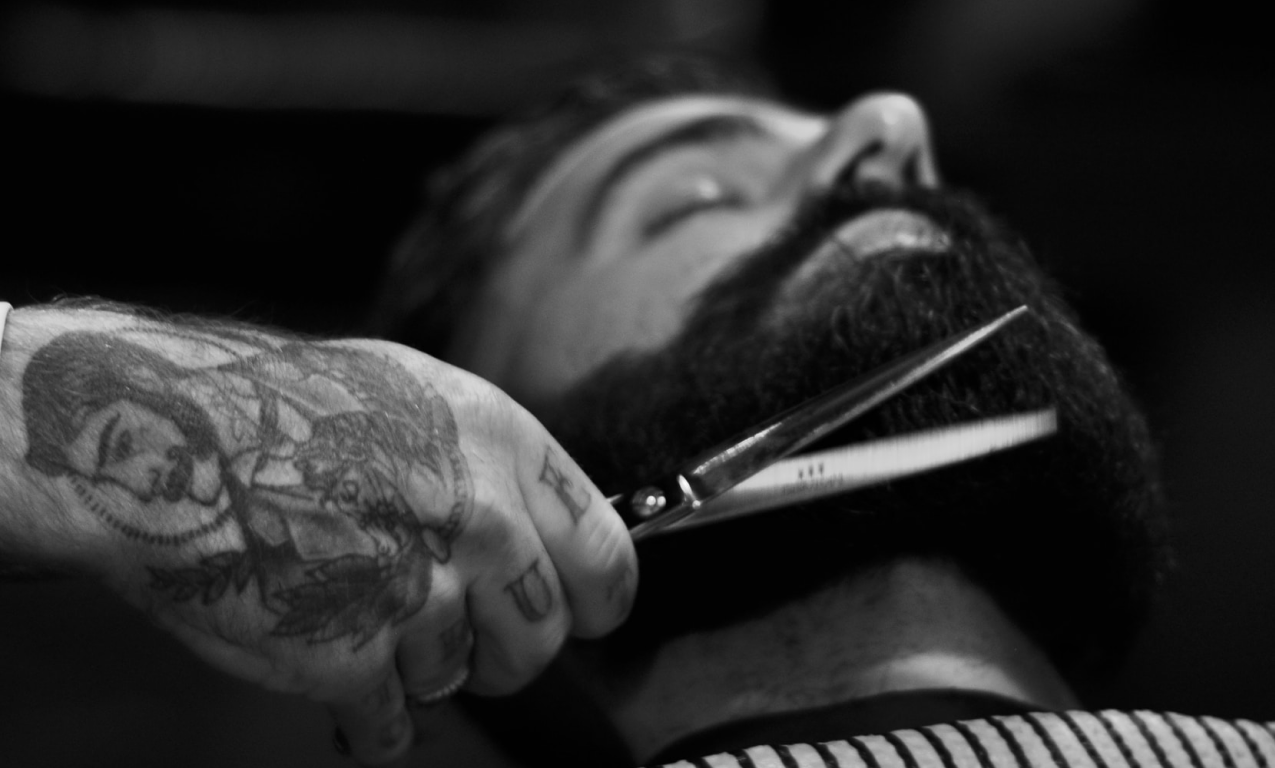
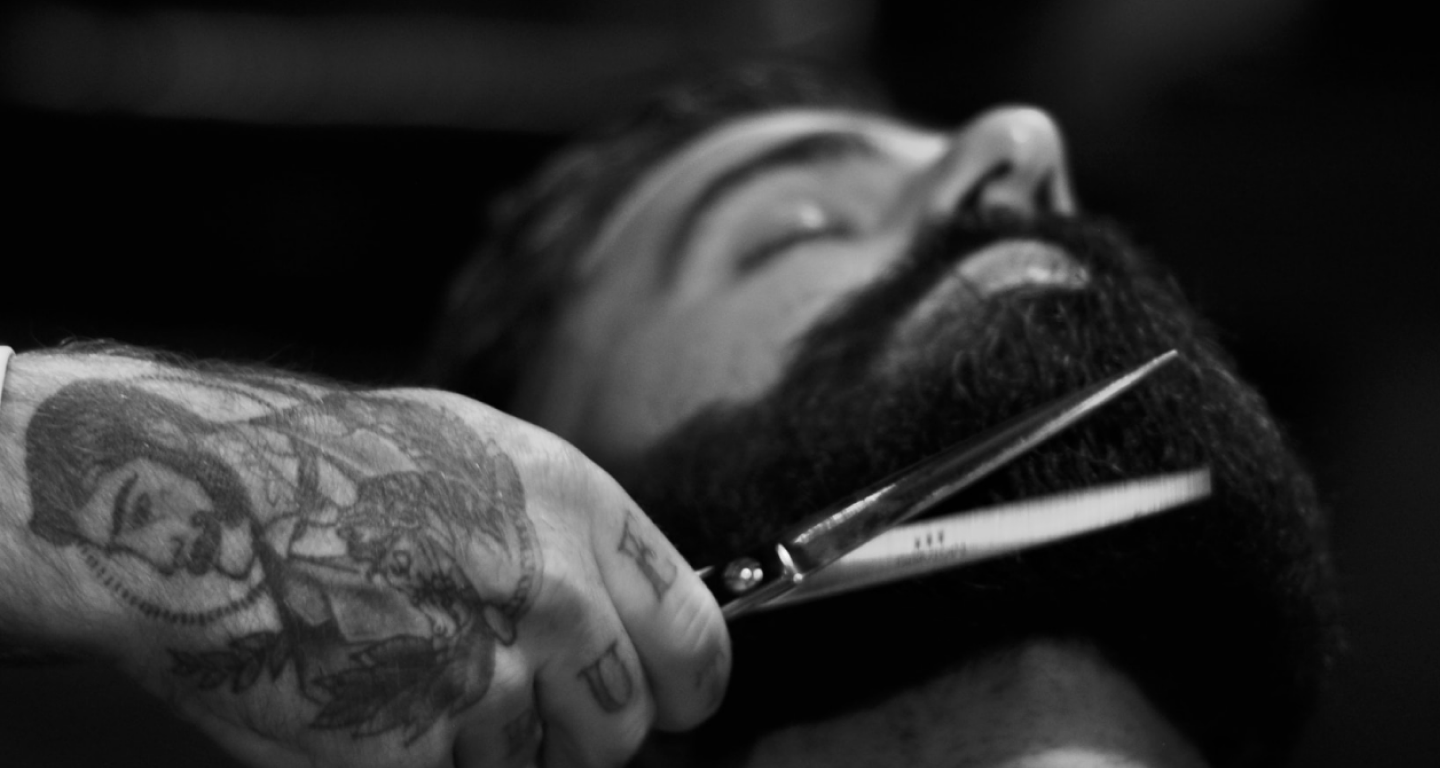
2 screen done

diff --git a/app/sass/main.sass b/app/sass/main.sass
@@ -126,6 +126,7 @@ button[type='submit']
     top: 0
     width: 100%
     padding-top: gem(50)
+    z-index: 10
     &-main
         display: flex
         justify-content: space-between
@@ -171,20 +172,37 @@ button[type='submit']
 
 .hero
     &-section
-        background: url(../img/opening.png) no-repeat
+        background: #fff
+        background-size: cover
+        height: gem(768)
         .scroll_button
             display: flex
             flex-wrap: wrap
             width: gem(39)
-            margin-left: gem(522)
-            margin-top: gem(113)
-            margin-bottom: gem(100)
+            left: gem(522)
+            bottom: gem(100)
+            position: absolute
+            a
+                display: flex
+                position: relative
+                &:after
+                    content: ''
+                    display: block
+                    width: gem(3)
+                    height: gem(98)
+                    background: var(--color-white-main)
+                    margin-bottom: gem(22)
+                    position: absolute
+                    right: gem(-20)
+                    top: gem(-22)
 
     &-main
         display: flex
-        align-items: flex-start
+        align-items: center
         position: relative
         justify-content: space-between
+        height: gem(768)
+        width: 100%
         &-tagline
             display: flex
             position: absolute
@@ -208,6 +226,7 @@ button[type='submit']
             margin-left: gem(277)
             margin-top: gem(180)
             width: gem(627)
+            margin-bottom: gem(210)
             span:nth-child(2)
                 display: flex
                 align-self: flex-end
@@ -217,32 +236,91 @@ button[type='submit']
         .social
             display: flex
             flex-direction: column
-            margin-top: gem(303)
+            
             a
                 display: flex
+                width: gem(18)
+                img
+                    width: 100%
             a:nth-child(1), a:nth-child(2), a:nth-child(3), a:nth-child(4), a:nth-child(5), a:nth-child(6), a:nth-child(7), a:nth-child(8)
                 margin-bottom: gem(30)
             a:last-child
                 margin-bottom: 0
 
-
-.scroll_button
-    display: flex
-    flex-wrap: wrap
-    width: gem(39)
-    margin-left: gem(672)
-    position: relative
-    a
+.about
+    &-section
+        background: var(--color-black)
+    &-main
         display: flex
         position: relative
-        &:after
-            content: ''
-            display: block
-            width: gem(3)
-            height: gem(98)
-            background: black
-            margin-bottom: gem(22)
-            position: absolute
-            right: gem(-20)
-            top: gem(-22)
+        padding: gem(220) 0
+        &-left
+            display: flex
+            position: relative
+            flex-direction: column
+            padding-top: gem(15)
+            max-width: gem(500)
+            h2
+                display: flex
+                margin-bottom: gem(45)
+                position: relative
+                margin-left: gem(23)
+                &:before
+                    content: ''
+                    display: block
+                    width: gem(15)
+                    height: gem(2)
+                    background: var(--color-white-main)
+                    position: absolute
+                    left: gem(-23)
+                    bottom: 0
+                &:after
+                    content: '01'
+                    display: block
+                    font-family: var(--main-font)
+                    font-size: var(--font-size-desc1)
+                    font-weight: var(--font-weight-3)
+                    position: absolute
+                    left: gem(176)
+                    top: gem(-18)
+            p:nth-child(3)
+                margin: gem(20) 0
+        &-right
+            display: flex
+            margin-left: gem(80)
+            flex-wrap: wrap
+            &-player
+                display: flex
+                flex-direction: column
+            &-video
+                display: flex
+                height: auto
+                width: gem(440)
+            &-button
+                display: flex
+                justify-content: center
+                position: relative
+                margin-top: gem(44)
+                &:before
+                    content: ''
+                    display: block
+                    width: gem(15)
+                    height: gem(2)
+                    background: var(--color-white-main)
+                    position: absolute
+                    left: gem(143)
+                    bottom: 0
 
+            &-angle
+                display: flex
+                margin-left: gem(70)
+                margin-top: gem(48)
+                width: gem(50)
+                height: gem(50)
+                border-top: gem(2) var(--color-white) solid
+                border-right: gem(2) var(--color-white) solid
+        .beside_video
+            display: flex
+            position: absolute
+            right: gem(22)
+            top: gem(292)

diff --git a/app/index.html b/app/index.html
@@ -36,13 +36,47 @@
     </header>
     <main>
         <section class="hero-section">
-            <div class="container">
+            <h1 class="title-h1">
+                <svg xmlns="http://www.w3.org/2000/svg" xmlns:xlink="http://www.w3.org/1999/xlink" width="200" height="100" viewBox="0 0 200 100">
+                    <style>
+                    svg {
+                        background: transparent;
+                        height: 7.68rem;
+                        width: 100%;
+                        margin-top: -.25rem;
+
+                    }
+                    image {
+                        width: 100%;
+                    }
+                    text {
+                        font-size: 45px;
+                    }
+                    </style>
+                    <pattern id="pattern" patternUnits="userSpaceOnUse" width="200" height="100" >
+                        <image xlink:href="img/opening.png" />
+                    </pattern>
+                    <text class="title-h1" x="15" y="50" stroke="none" stroke-width="11" fill="url(#pattern)">Choose</text>
+                    <text class="title-h1" x="15" y="90" stroke="none" stroke-width="11" fill="url(#pattern)">Your</text>
+                </svg>
+            </h1>
+            <!--             <div class="container">
                 <div class="hero-main">
                     <div class="hero-main-tagline">
                         <p class="small-text black bold">You come to the master, not to the hairdresser</p>
                     </div>
                     <h1 class="title-h1">
-                        <span>Choose</span>
+                        <svg xmlns="http://www.w3.org/2000/svg" viewBox="0 0 1000 500">
+                            <defs>
+                                <mask id="LetMask">
+                                    <text font-size="200px" font-family="serif" x="200" y="300" fill="white">
+                                        Choose
+                                    </text>
+                                </mask>
+                            </defs>
+                            <image xlink:href="img/opening.png" width="100%" height="100%" mask="url(#LetMask)" />
+
+                        </svg>
                         <span>your</span>
                         <span>style</span>
                     </h1>
@@ -52,14 +86,35 @@
                         <a href="#"><img src="img/twitter.svg" alt=""></a>
                         <a href="#"><img src="img/instagram.svg" alt=""></a>
                     </div>
+                    <div class="scroll_button">
+                        <a class="small-text black bold" href="">scroll down</a>
+                    </div>
                 </div>
-                <div class="scroll_button">
-                    <a class="small-text black bold" href="">scroll down</a>
+            </div> -->
+        </section>
+        <section class="about-section">
+            <div class="container">
+                <div class="about-main"> 
+                    <div class="about-main-left">
+                        <h2 class="title-h2">About Us</h2>
+                        <p class="desc-1">MANN Barbershop is an exclusively male story. We specialize in men's haircuts and shaving.</p>
+                        <p class="desc-1">Our masters are professionals who constantly improve their skills and use only the best tools and professional cosmetics in their work.</p>
+                        <p class="desc-1">Today MANN Barbershop is two spaces that are located in different parts of Kharkov and have their own individual characteristics and atmosphere, but at the same time, the quality of haircuts remains unchanged.</p>
+                    </div>
+                    <div class="about-main-right">
+                        <div class="about-main-right-player">
+                            <div class="about-main-right-video">
+                                <img src="img/video.png" alt="">
+                            </div>
+                            <p class="desc-1 about-main-right-button">watch video</p>
+                        </div>
+                        <div class="about-main-right-angle"></div>
+                    </div>
+                    <div class="beside_video">
+                        <img src="img/beside.png" alt="">
+                    </div>
                 </div>
             </div>
-        </section>
-        <section class="about">
-            
         </section>
     </main>
     <!-- End here -->

diff --git a/app/sass/common/typography.sass b/app/sass/common/typography.sass
@@ -65,6 +65,8 @@ article, footer, header, nav, section, input, textarea, button
 
     &.desc-1
         @include desc-1
+        &.black
+            color: var(--color-black-main)
 
     &.small-text
         @include small-text

diff --git a/app/sass/common/variables.colors.sass b/app/sass/common/variables.colors.sass
@@ -1,4 +1,6 @@
 \:root
     --color-white-main:                          #ECECEC
    	--color-black-main:							 #131313
+   	--color-black:								 #080808
+   	--color-white:								 #FFFFFF
     

diff --git a/app/sass/common/variables.sizes.sass b/app/sass/common/variables.sizes.sass
@@ -1,5 +1,5 @@
 \:root
-    --container-width: #{gem(1200)}
+    --container-width: #{gem(1140)}
 
 @media all and (max-width: 1024px)
     \:root
